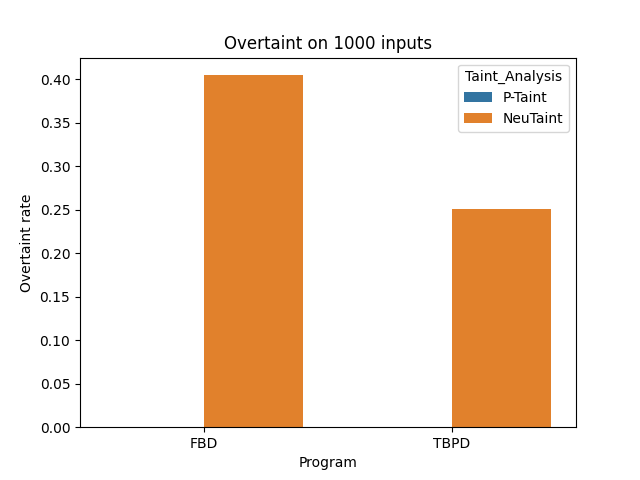
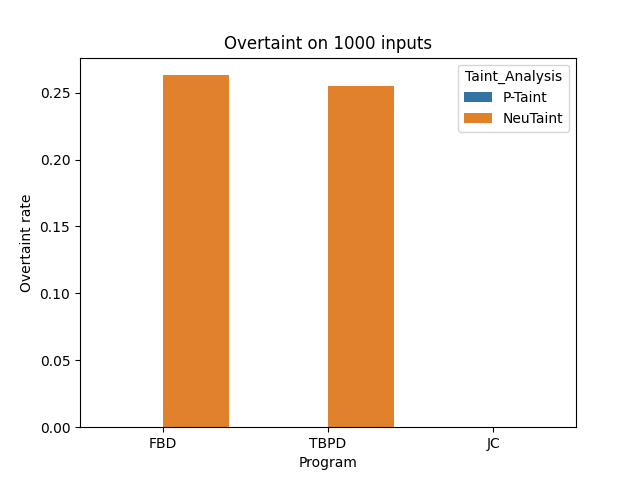
Neutaint on JC now works; updated evaluation plots

diff --git a/evaluation.py b/evaluation.py
@@ -1,10 +1,4 @@
 """ Compare ptaint to neutaint
-
-    TODO:
-        - Prepare ground truth for any input for each of programs
-        - run both ptaint & neutaint on many inputs
-        - compute errors
-        - compare run time
 """
 import numpy as np
 import programs
@@ -33,7 +27,7 @@ class Evaluation():
         self.refs = [p.gen_ref() for p in self.program_insts]
 
         self.ptaint_results = self.evaluate_taint('ptaint')
-        # self.neutaint_results = self.evaluate_taint('neutaint')
+        self.neutaint_results = self.evaluate_taint('neutaint')
 
     def construct_dataset(self, inst):
         return inst.gen_inputs(self.dataset_length)
@@ -41,29 +35,34 @@ class Evaluation():
     def compute_errors(self, results, truth):
         res = np.array(results)
         tru = np.array(truth)
-        # print(res)
-        # print(tru)
-        # print(res.shape)
-        # print(tru.shape)
         diff = tru - res
         undertaint = np.mean(diff > 0.0)
         overtaint = np.mean(diff < 0.0)
         return overtaint, undertaint
 
-    def evaluate_one(self, method, i, p, ref, tol):
+    def evaluate_one(self, method, i, p, ref, tol, time=False):
         results = list()
+        time_results = list()
         for inpt in self.input_datasets[i]:
             if ref != None:
                 taint_args=[inpt, p, ref]
             else:
                 taint_args=[inpt, p]
+
+            start_t = timer()
             inf = method(*taint_args)
+            end_t = timer()
             result = [
                     1.0 - np.isclose(v, np.zeros_like(v), atol=tol).astype(np.float)
                     for v in inf
                     ]
             results.append(result)
-        return results
+            if time:
+                time_results.append(end_t - start_t)
+        if time:
+            return time_results
+        else:
+            return results
 
     def evaluate_taint(self, method='ptaint'):
         self.results_list = list()
@@ -85,6 +84,7 @@ class Evaluation():
             else:
                 raise Exception("Unknown taint analysis")
             results = self.evaluate_one(method_f, i, p, p_ref, tolerance)
+            # print("results_length: ", len(results[0]))
             self.results_list.append(results)
 
         eval_result = [
@@ -96,16 +96,22 @@ class Evaluation():
     def runtime_experiment(self, method, need_refs=True):
         results_list = list()
         for i, (p, ref) in enumerate(zip(self.program_insts, self.refs)):
-            results = list()
-            for inpt in self.input_datasets[i]:
-                if need_refs:
-                    taint_args=[inpt, p, ref]
+            if method == 'ptaint':
+                if p.typ == 'numeric':
+                    method_f = ptaint.ptaint_numeric
+                elif p.typ == 'string':
+                    method_f = ptaint.ptaint_string
                 else:
-                    taint_args=[inpt, p]
-                start_t = timer()
-                inf = method(*taint_args)
-                end_t = timer()
-                results.append(end_t - start_t)
+                    raise Exception("Unknown program type")
+                p_ref = ref
+                tolerance=1e-14
+            elif method == 'neutaint':
+                method_f = run_neutaint
+                p_ref = None
+                tolerance=1e-5
+            else:
+                raise Exception("Unknown taint analysis")
+            results = self.evaluate_one(method_f, i, p, p_ref, tolerance, time=True)
             results_list.append(results)
         return results_list
 
@@ -122,17 +128,16 @@ if __name__ == "__main__":
     for i, program in enumerate(program_list):
         print("ptaint:")
         print(f"program: {program}, ptaint_error_rate: {ev.ptaint_results[i]}")
-    # for i, program in enumerate(program_list):
-        # print('neutaint')
-        # print(f"program: {program}, neutaint_error_rate: {ev.neutaint_results[i]}")
+    for i, program in enumerate(program_list):
+        print('neutaint')
+        print(f"program: {program}, neutaint_error_rate: {ev.neutaint_results[i]}")
 
-    # print("==== runtime experiment ====")
-    # methods = [ptaint.ptaint_numeric, run_neutaint]
-    # refs = [True, False]
-    # for method, ref in zip(methods, refs):
-        # print(method.__name__)
-        # time_results = ev.runtime_experiment(method, need_refs=ref)
-        # for i, program in enumerate(program_list):
-            # print(f"program: {program}, {method.__name__}: {np.mean(time_results[i])}")
+    print("==== runtime experiment ====")
+    methods = ['ptaint', 'neutaint']
+    refs = [True, False]
+    for method, ref in zip(methods, refs):
+        time_results = ev.runtime_experiment(method, need_refs=ref)
+        for i, program in enumerate(program_list):
+            print(f"program: {program}, {method}: {np.mean(time_results[i])}")
 
 

diff --git a/util.py b/util.py
@@ -3,12 +3,13 @@ import models
 import JCModel
 import programs
 import json
+import numpy as np
 
 def get_gradients(model, x):
     x_tensor = torch.tensor(x, requires_grad=True)
     y = model(x_tensor)
     y.backward(torch.ones_like(y))
-    return x_tensor.grad
+    return x_tensor.grad.unsqueeze(-1).numpy()
 
 def run_neutaint(inps, p):
     cname = p.__class__.__name__
@@ -16,22 +17,22 @@ def run_neutaint(inps, p):
     model.load_state_dict(torch.load(f"models/{p.name}.pl"))
     if p.typ == 'string':
         inps = convert_json_string_JC(inps)
-    saliency_map = get_gradients(model, inps)
+        saliency_map = get_gradients(model, inps)
+        temp = [sum(saliency_map[i:i+10])/len(saliency_map[i:i+10])
+                for i in range(0,len(saliency_map),10)]
+        saliency_map = temp
+    else:
+        saliency_map = get_gradients(model, inps)
+
     return saliency_map
 
 def convert_json_string_JC(json_strings):
     """
     Convert JSON string input to something that can be processed by Neutaint model
     """
-    p = programs.JC()
-    t = list()
-    y = list()
-    for json_string in json_strings:
-        program_output = p(json_string)
+    def convert_one(json_string):
         inpt_dict = json.loads(json_string)
         x1, x2 = list(inpt_dict.values())
-        # x1 = json.loads(x1)
-        # x2 = json.loads(x2)
         temp = list()
         for key in x1:
             temp.append(key.ljust(5))
@@ -40,12 +41,21 @@ def convert_json_string_JC(json_strings):
         for key in x2:
             temp.append(key.ljust(5))
             temp.append(x2[key].ljust(5))
+        return temp
 
-        t.append(words_to_ascii(temp))
-        y.append(program_output)
+    # p = programs.JC()
+    t = list()
+    if isinstance(json_strings, list):
+        for json_string in json_strings:
+            temp = convert_one(json_string)
+            t.append(words_to_ascii(temp))
+    else:
+        temp = convert_one(json_strings)
+        return words_to_ascii(temp)
+        # t.append(words_to_ascii(temp))
 
-    return torch.tensor(t, dtype=torch.float), \
-            torch.tensor(y, dtype=torch.float).reshape(len(json_strings), 1)
+    # return torch.tensor(t, dtype=torch.float)
+    return t
 
 def words_to_ascii(words):
     t = list()

diff --git a/plot.py b/plot.py
@@ -28,9 +28,10 @@ def box_plot(df, dataset_length):
 if __name__ == "__main__":
     program_list = [
             'FBD',
-            'TBPD'
+            'TBPD',
+            'JC'
             ]
-    dataset_length = 100
+    dataset_length = 1000
     ev = Evaluation(program_list, dataset_length=dataset_length)
     ptaint_overtaint = list()
     ptaint_undertaint = list()
@@ -38,11 +39,11 @@ if __name__ == "__main__":
     neutaint_undertaint = list()
     for i, program in enumerate(program_list):
         print("ptaint:")
-        print(f"program: {program}, ptaint_numeric_error_rate: {ev.ptaint_numeric_results[i]}")
+        print(f"program: {program}, ptaint_error_rate: {ev.ptaint_results[i]}")
         print('neutaint')
         print(f"program: {program}, neutaint_error_rate: {ev.neutaint_results[i]}")
-        ptaint_overtaint.append(ev.ptaint_numeric_results[i][0])
-        ptaint_undertaint.append(ev.ptaint_numeric_results[i][1])
+        ptaint_overtaint.append(ev.ptaint_results[i][0])
+        ptaint_undertaint.append(ev.ptaint_results[i][1])
         neutaint_overtaint.append(ev.neutaint_results[i][0])
         neutaint_undertaint.append(ev.neutaint_results[i][1])
     df = pd.DataFrame({
@@ -54,15 +55,14 @@ if __name__ == "__main__":
     bar_plot(df, dataset_length)
 
     print("==== runtime experiment ====")
-    methods = [ptaint.ptaint_numeric, run_neutaint]
+    methods = ['ptaint', 'neutaint']
     refs = [True, False]
     time_list = list()
     for method, ref in zip(methods, refs):
-        print(method.__name__)
         time_results = ev.runtime_experiment(method, need_refs=ref)
         time_list.extend(time_results)
         for i, program in enumerate(program_list):
-            print(f"program: {program}, {method.__name__}: {np.mean(time_results[i])}")
+            print(f"program: {program}, {method}: {np.mean(time_results[i])}")
     df = pd.DataFrame({
         "Taint_Analysis": ["P-Taint"] * (len(program_list)) + ["NeuTaint"] * (len(program_list)),
         "Program": program_list * 2,

diff --git a/programs.py b/programs.py
@@ -123,7 +123,7 @@ class JC(program):
     def __init__(self):
         name = 'json_compare'
         typ = 'string'
-        input_length = 2
+        input_length = 40
         super(JC, self).__init__(name, typ, input_length)
         self.json_item_num = 2
         self.json_key_length = 5
